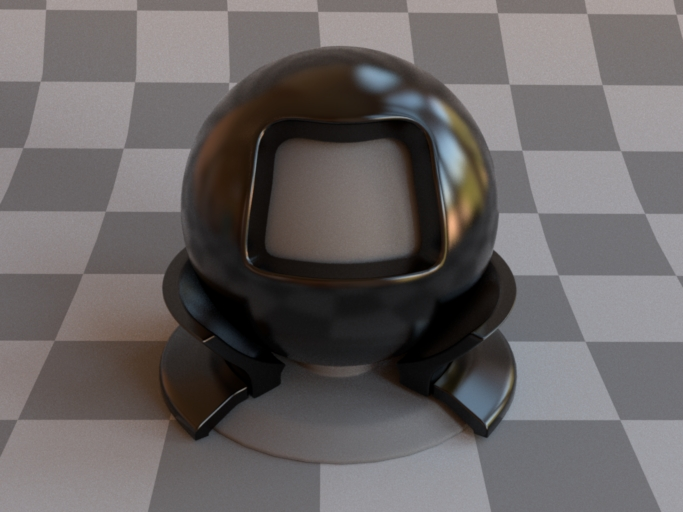
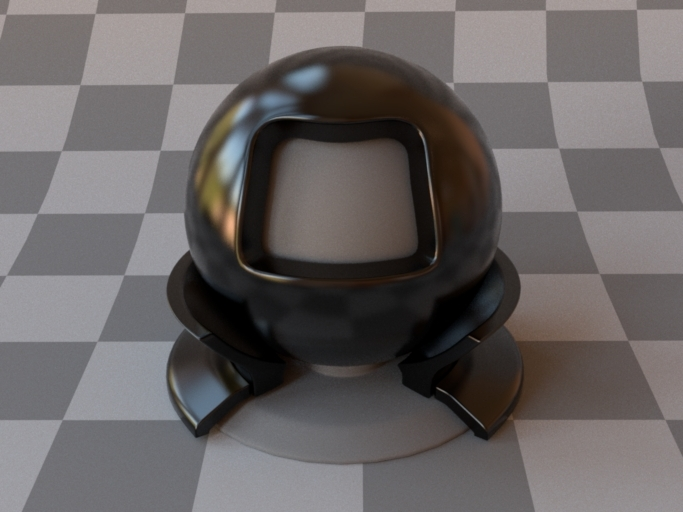
got the coating to work; more documentation

diff --git a/src/bsdfs/coating.cpp b/src/bsdfs/coating.cpp
@@ -30,10 +30,45 @@ MTS_NAMESPACE_BEGIN
  *      numerically or using a known material name. \default{\texttt{bk7} / 1.5046}}
  *     \parameter{extIOR}{\Float\Or\String}{Exterior index of refraction specified
  *      numerically or using a known material name. \default{\texttt{air} / 1.000277}}
+ *     \parameter{sigmaA}{\Spectrum\Or\Texture}{Absorption coefficient within the layer. \default{0}}
+ *     \parameter{thickness}{\Float}{Thickness of the absorbing layer (given in inverse units of \code{sigmaA})\default{1}}
+ * }
+ * 
+ * \renderings{
+ *     \rendering{Coated rough copper (lower exposure, \lstref{coating-roughcopper})}
+ *         {bsdf_coating_roughconductor}
+ *     \rendering{Coated rough plastic}
+ *         {bsdf_coating_roughplastic}
  * }
  *
- * This class implements a smooth dielectric coating in the style of 
- * Weidlich and Wilkie \cite{Weidlich2007Arbitrarily}.
+ * This plugin implements a smooth dielectric coating in the style of the
+ * paper ``Arbitrarily Layered Micro-Facet Surfaces'' by Weidlich and 
+ * Wilkie \cite{Weidlich2007Arbitrarily}. Any non-transmissive model can
+ * be coated, and multiple layers can be applied in sequence. This allows
+ * designing custom materials like car paint.
+ *
+ * The coating layer can optionally be filled with an absorbing medium, 
+ * in which case this model also accounts for the directionally dependent
+ * extinction within the layer.
+ *
+ * Evaluating the internal component of this model entails refracting the 
+ * incident and exitant rays through the dielectric interface, followed by
+ * querying the nested material with this modified direction pair. The result 
+ * is attenuated by the two Fresnel transmittances. Note that this model does
+ * not attempt to handle illumination that is reflected by the interior of the 
+ * coating---this energy is essentially lost.
+ *
+ * \vspace{4mm}
+ *
+ * \begin{xml}[caption=Rough copper coated with a transparent layer of lacquer, label=lst:coating-roughcopper]
+ * <bsdf type="coating">
+ *     <float name="intIOR" value="1.7"/>
+ *     <bsdf type="roughconductor">
+ *         <string name="material" value="Cu"/>
+ *         <float name="alpha" value="0.1"/>
+ *     </bsdf>
+ * </bsdf>
+ * \end{xml}
  */
 class SmoothCoating : public BSDF {
 public:
@@ -45,12 +80,12 @@ public:
 		/* Specifies the external index of refraction at the interface */
 		m_extIOR = lookupIOR(props, "extIOR", "air");
 		
-		/* Specifies the layer's thickness using the inverse units of sigmaT */
-		m_thickness = props.getFloat("thickness", 1);
+		/* Specifies the absorption within the layer */
+		m_sigmaA = new ConstantSpectrumTexture(
+			props.getSpectrum("sigmaA", Spectrum(0.0f)));
 
-		/* Specifies the attenuation within the varnish layer */
-		m_sigmaT = new ConstantSpectrumTexture(
-			props.getSpectrum("sigmaT", Spectrum(0.0f)));
+		/* Specifies the layer's thickness using the inverse units of sigmaA */
+		m_thickness = props.getFloat("thickness", 1);
 	}
 
 	SmoothCoating(Stream *stream, InstanceManager *manager) 
@@ -59,7 +94,7 @@ public:
 		m_extIOR = stream->readFloat();
 		m_thickness = stream->readFloat();
 		m_nested = static_cast<BSDF *>(manager->getInstance(stream));
-		m_sigmaT = static_cast<Texture *>(manager->getInstance(stream));
+		m_sigmaA = static_cast<Texture *>(manager->getInstance(stream));
 		configure();
 	}
 
@@ -71,12 +106,12 @@ public:
 				"with a transmission component -- this is currently not allowed!");
 
 		m_components.clear();
-		for (int i=0; i<m_nested->getComponentCount(); ++i)
+		for (int i=0; i<m_nested->getComponentCount(); ++i) 
 			m_components.push_back(m_nested->getType(i));
 		m_components.push_back(EDeltaReflection | EFrontSide);
 		
 		m_usesRayDifferentials = m_nested->usesRayDifferentials()
-			|| m_sigmaT->usesRayDifferentials();
+			|| m_sigmaA->usesRayDifferentials();
 
 		BSDF::configure();
 	}
@@ -88,7 +123,7 @@ public:
 		stream->writeFloat(m_extIOR);
 		stream->writeFloat(m_thickness);
 		manager->serialize(stream, m_nested.get());
-		manager->serialize(stream, m_sigmaT.get());
+		manager->serialize(stream, m_sigmaA.get());
 	}
 
 	void addChild(const std::string &name, ConfigurableObject *child) {
@@ -118,8 +153,7 @@ public:
 	/// Refraction in local coordinates (full version)
 	inline Vector refract(const Vector &wi, Float &F) const {
 		Float cosThetaI = Frame::cosTheta(wi),
-			  etaI = m_extIOR,
-			  etaT = m_intIOR;
+			  etaI = m_extIOR, etaT = m_intIOR;
 
 		bool entering = cosThetaI > 0.0f;
 
@@ -132,14 +166,13 @@ public:
 		Float eta = etaI / etaT,
 			  sinThetaTSqr = eta*eta * Frame::sinTheta2(wi);
 
-		Float cosThetaT = 0;
 		if (sinThetaTSqr >= 1.0f) {
 			/* Total internal reflection */
 			F = 1.0f;
 
 			return Vector(0.0f);
 		} else {
-			cosThetaT = std::sqrt(1.0f - sinThetaTSqr);
+			Float cosThetaT = std::sqrt(1.0f - sinThetaTSqr);
 
 			/* Compute the Fresnel transmittance */
 			F = fresnelDielectric(std::abs(Frame::cosTheta(wi)),
@@ -169,24 +202,25 @@ public:
 			BSDFQueryRecord bRec2(bRec);
 			bRec2.wi = -refract(bRec.wi, R12);
 			bRec2.wo = -refract(bRec.wo, R21);
-			Assert(bRec2.wi.z >= 0);
-			Assert(bRec2.wo.z >= 0);
 
 			if (R12 == 1 || R21 == 1) /* Total internal reflection */
 				return Spectrum(0.0f);
 
 			Spectrum result = m_nested->eval(bRec2, measure)
 				* ((1-R12) * (1-R21));
-
-			Spectrum sigmaT = m_sigmaT->getValue(bRec.its) * m_thickness;
-			if (!sigmaT.isZero()) 
-				result *= (-sigmaT *
+			
+			Spectrum sigmaA = m_sigmaA->getValue(bRec.its) * m_thickness;
+			if (!sigmaA.isZero()) 
+				result *= (-sigmaA *
 					(1/std::abs(Frame::cosTheta(bRec2.wi)) +
 					 1/std::abs(Frame::cosTheta(bRec2.wo)))).exp();
 
 			if (measure == ESolidAngle)
 				result *= Frame::cosTheta(bRec2.wo);
-				
+
+			Float eta = m_extIOR / m_intIOR;
+			result *= eta * eta;
+
 			return result;
 		}
 	
@@ -215,12 +249,13 @@ public:
 
 			if (R12 == 1 || R21 == 1) /* Total internal reflection */
 				return 0.0f;
+		
+			Float pdf = m_nested->pdf(bRec2, measure)
+				* Frame::cosTheta(bRec.wo)
+				/ Frame::cosTheta(bRec2.wo);
 
-			Float pdf = m_nested->pdf(bRec2, measure);
-			if (measure == ESolidAngle) {
-				Float eta = m_extIOR / m_intIOR;
-				pdf /= eta * eta;
-			}
+			Float eta = m_extIOR / m_intIOR;
+			pdf *= eta * eta;
 
 			return sampleSpecular ? (pdf * (1-R12)) : pdf;
 		} else {
@@ -234,7 +269,7 @@ public:
 		bool sampleNested = (bRec.typeMask & m_nested->getType() & BSDF::EAll)
 			&& (bRec.component == -1 || bRec.component < (int) m_components.size()-1);
 
-		if ((!sampleNested && !sampleNested) || Frame::cosTheta(bRec.wi) < 0)
+		if ((!sampleSpecular && !sampleNested) || Frame::cosTheta(bRec.wi) <= 0)
 			return Spectrum(0.0f);
 
 		/* Refract the incident direction and compute the Fresnel reflectance */
@@ -250,54 +285,52 @@ public:
 					-cosThetaT, m_extIOR, m_intIOR);
 		}
 
+		bool choseSpecular = sampleSpecular;
+
 		Point2 sample(_sample);
-		if (sampleNested && sampleNested) {
-			if (sample.x <= R12) {
-				bRec.sampledComponent = m_components.size()-1;
-				bRec.sampledType = EDeltaReflection;
-				bRec.wo = reflect(bRec.wi);
-				pdf = R12;
-				return Spectrum(R12);
-			} else {
-				Vector wiBackup = bRec.wi;
-			//	bRec.wi = -refract(bRec.wi, eta, cosThetaT);
-				bRec.wi = -refract(bRec.wi, R12);
+		if (sampleSpecular && sampleNested) {
+			if (sample.x > R12) {
 				sample.x = (sample.x - R12) / (1 - R12);
-
-				Spectrum result = m_nested->sample(bRec, pdf, sample);
-				if (result.isZero())
-					return Spectrum(0.0f);
-
-				Spectrum sigmaT = m_sigmaT->getValue(bRec.its) * m_thickness;
-				if (!sigmaT.isZero()) 
-					result *= (-sigmaT *
-						(1/std::abs(Frame::cosTheta(bRec.wi)) +
-						 1/std::abs(Frame::cosTheta(bRec.wo)))).exp();
-
-				Float R21, cosThetaWoPrime = Frame::cosTheta(bRec.wo);
-				bRec.wi = wiBackup;
-				bRec.wo = refract(-bRec.wo, R21);
-
-				if (R21 == 1.0f) /* Total internal reflection */
-					return Spectrum(0.0f);
-	
-				pdf *= 1 - R12;
-				if (BSDF::getMeasure(bRec.sampledType) == ESolidAngle)
-					pdf /= eta * eta;
-
-				result *= (1 - R12) * (1 - R21) * cosThetaWoPrime;
-
-				return result;
+				choseSpecular = false;
 			}
-		} else if (sampleSpecular) {
-			bRec.sampledComponent = 0;
+		}
+		
+		if (choseSpecular) {
+			bRec.sampledComponent = m_components.size()-1;
 			bRec.sampledType = EDeltaReflection;
 			bRec.wo = reflect(bRec.wi);
-			pdf = 1.0f;
+			pdf = sampleNested ? R12 : 1.0f;
 			return Spectrum(R12);
 		} else {
-			// XXX not implemented
-			return Spectrum(0.0f);
+			if (R12 == 1.0f) /* Total internal reflection */
+				return Spectrum(0.0f);
+
+			Vector wiBackup = bRec.wi;
+			bRec.wi = -refract(bRec.wi, eta, cosThetaT);
+
+			Spectrum result = m_nested->sample(bRec, pdf, sample);
+			if (result.isZero()) 
+				return Spectrum(0.0f);
+
+			Spectrum sigmaA = m_sigmaA->getValue(bRec.its) * m_thickness;
+			if (!sigmaA.isZero()) 
+				result *= (-sigmaA *
+					(1/std::abs(Frame::cosTheta(bRec.wi)) +
+					 1/std::abs(Frame::cosTheta(bRec.wo)))).exp();
+
+			Float R21, cosThetaWoPrime = Frame::cosTheta(bRec.wo);
+			bRec.wo = refract(-bRec.wo, R21);
+			bRec.wi = wiBackup;
+
+			if (R21 == 1.0f) /* Total internal reflection */
+				return Spectrum(0.0f);
+
+			pdf *= (sampleSpecular ? (1 - R12) : 1.0f) * eta * eta *
+				Frame::cosTheta(bRec.wo) / cosThetaWoPrime;
+
+			result *= (1 - R12) * (1 - R21) * cosThetaWoPrime * eta * eta;
+
+			return result;
 		}
 	}
 
@@ -317,7 +350,7 @@ public:
 			<< "  name = \"" << getName() << "\"," << endl
 			<< "  intIOR = " << m_intIOR << "," << endl 
 			<< "  extIOR = " << m_extIOR << "," << endl
-			<< "  sigmaT = " << indent(m_sigmaT->toString()) << "," << endl
+			<< "  sigmaA = " << indent(m_sigmaA->toString()) << "," << endl
 			<< "  thickness = " << m_thickness << "," << endl
 			<< "  nested = " << indent(m_nested->toString()) << endl
 			<< "]";
@@ -327,11 +360,11 @@ public:
 	MTS_DECLARE_CLASS()
 private:
 	Float m_intIOR, m_extIOR;
-	ref<Texture> m_sigmaT;
+	ref<Texture> m_sigmaA;
 	ref<BSDF> m_nested;
 	Float m_thickness;
 };
 
 MTS_IMPLEMENT_CLASS_S(SmoothCoating, false, BSDF)
-MTS_EXPORT_PLUGIN(SmoothCoating, "Smooth varnish layer");
+MTS_EXPORT_PLUGIN(SmoothCoating, "Smooth dielectric coating");
 MTS_NAMESPACE_END

diff --git a/src/bsdfs/mixture.cpp b/src/bsdfs/mixture.cpp
@@ -22,10 +22,43 @@
 
 MTS_NAMESPACE_BEGIN
 
-/**
- * Mixture material, represents a linear combination of 
- * one or more BRDFs.
+/*! \plugin{mixture}{Mixture material}
+ *
+ * \parameters{
+ *     \parameter{weights}{\String}{A comma-separated list of BSDF weights}
+ * }
+ * \renderings{
+ *     \rendering{An exemplary combination of BSDFs 
+ *     (\lstref{mixture-example})}{bsdf_mixture_test}
+ * }
+ *
+ * This plugin implements a ``mixture'' material, which represents  
+ * linear combinations of multiple BSDF instances. Any surface scattering
+ * model in Mitsuba (be it smooth, rough, reflecting, or transmitting) can 
+ * be mixed with others in this manner to synthesize new models. There
+ * is no limit on how many models can be mixed, but their combination
+ * weights must be nonnegative and sum to less than one to ensure 
+ * energy balance.
+ *
+ * \vspace{4mm}
+ * \begin{xml}[caption={A material definition for a mixture of 70% smooth
+ *     chromium, 20% of a greenish rough diffuse material (and 10% absorption)},
+ *     label=lst:mixture-example]
+ * <bsdf type="mixture">
+ *     <string name="weights" value="0.7, 0.2"/>
+ *
+ *     <bsdf type="conductor">
+ *         <string name="material" value="Cr"/>
+ *     </bsdf>
+ *
+ *     <bsdf type="roughdiffuse">
+ *         <rgb name="reflectance" value=".7 1 .7"/>
+ *         <float name="alpha" value="0.4"/>
+ *     </bsdf>
+ * </bsdf>
+ * \end{xml}
  */
+
 class MixtureBSDF : public BSDF {
 public:
 	MixtureBSDF(const Properties &props) 

diff --git a/src/bsdfs/dielectric.cpp b/src/bsdfs/dielectric.cpp
@@ -212,8 +212,7 @@ public:
 	/// Refraction in local coordinates (full version)
 	inline Vector refract(const Vector &wi) const {
 		Float cosThetaI = Frame::cosTheta(wi),
-			  etaI = m_extIOR,
-			  etaT = m_intIOR;
+			  etaI = m_extIOR, etaT = m_intIOR;
 
 		bool entering = cosThetaI > 0.0f;
 

diff --git a/src/bsdfs/irawan.cpp b/src/bsdfs/irawan.cpp
@@ -72,7 +72,6 @@ MTS_NAMESPACE_BEGIN
  *     \unframedmedrendering{Silk shantung}{bsdf_irawan_shantung}
  *     \unframedmedrendering{Cotton twill}{bsdf_irawan_twill}
  * }
- *
  */
 class IrawanClothBRDF : public BSDF {
 public:
